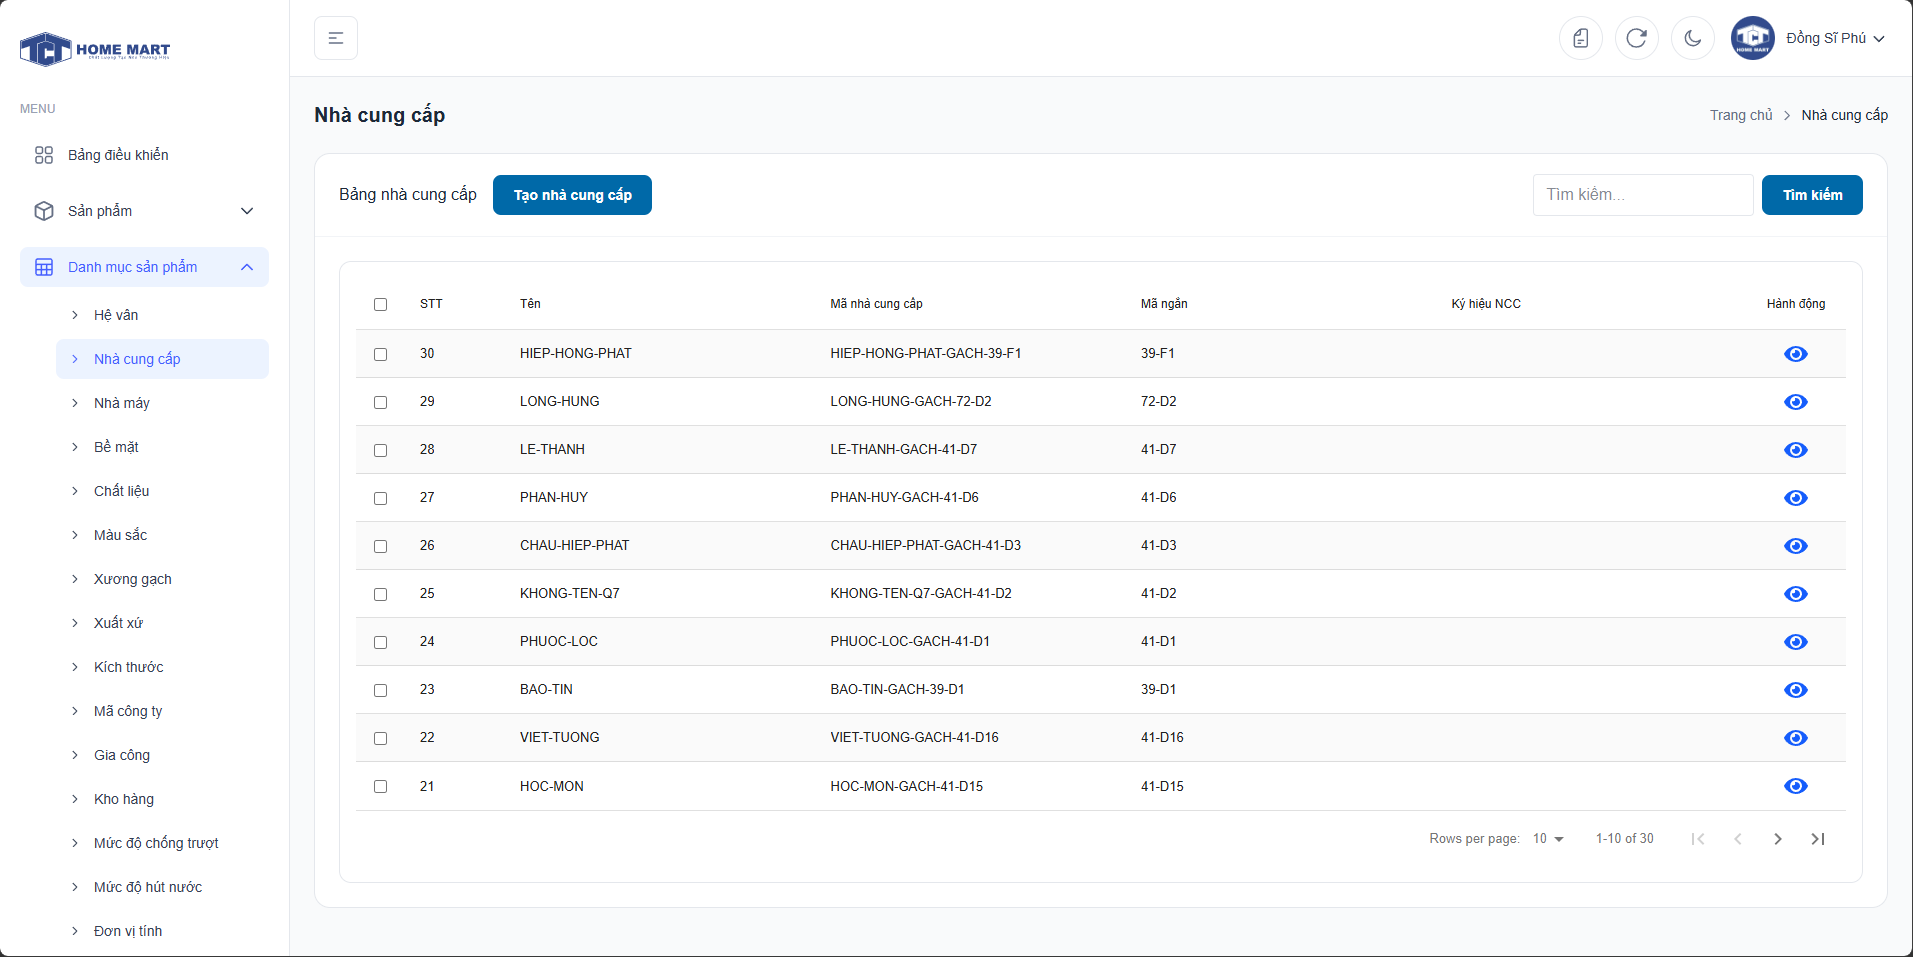
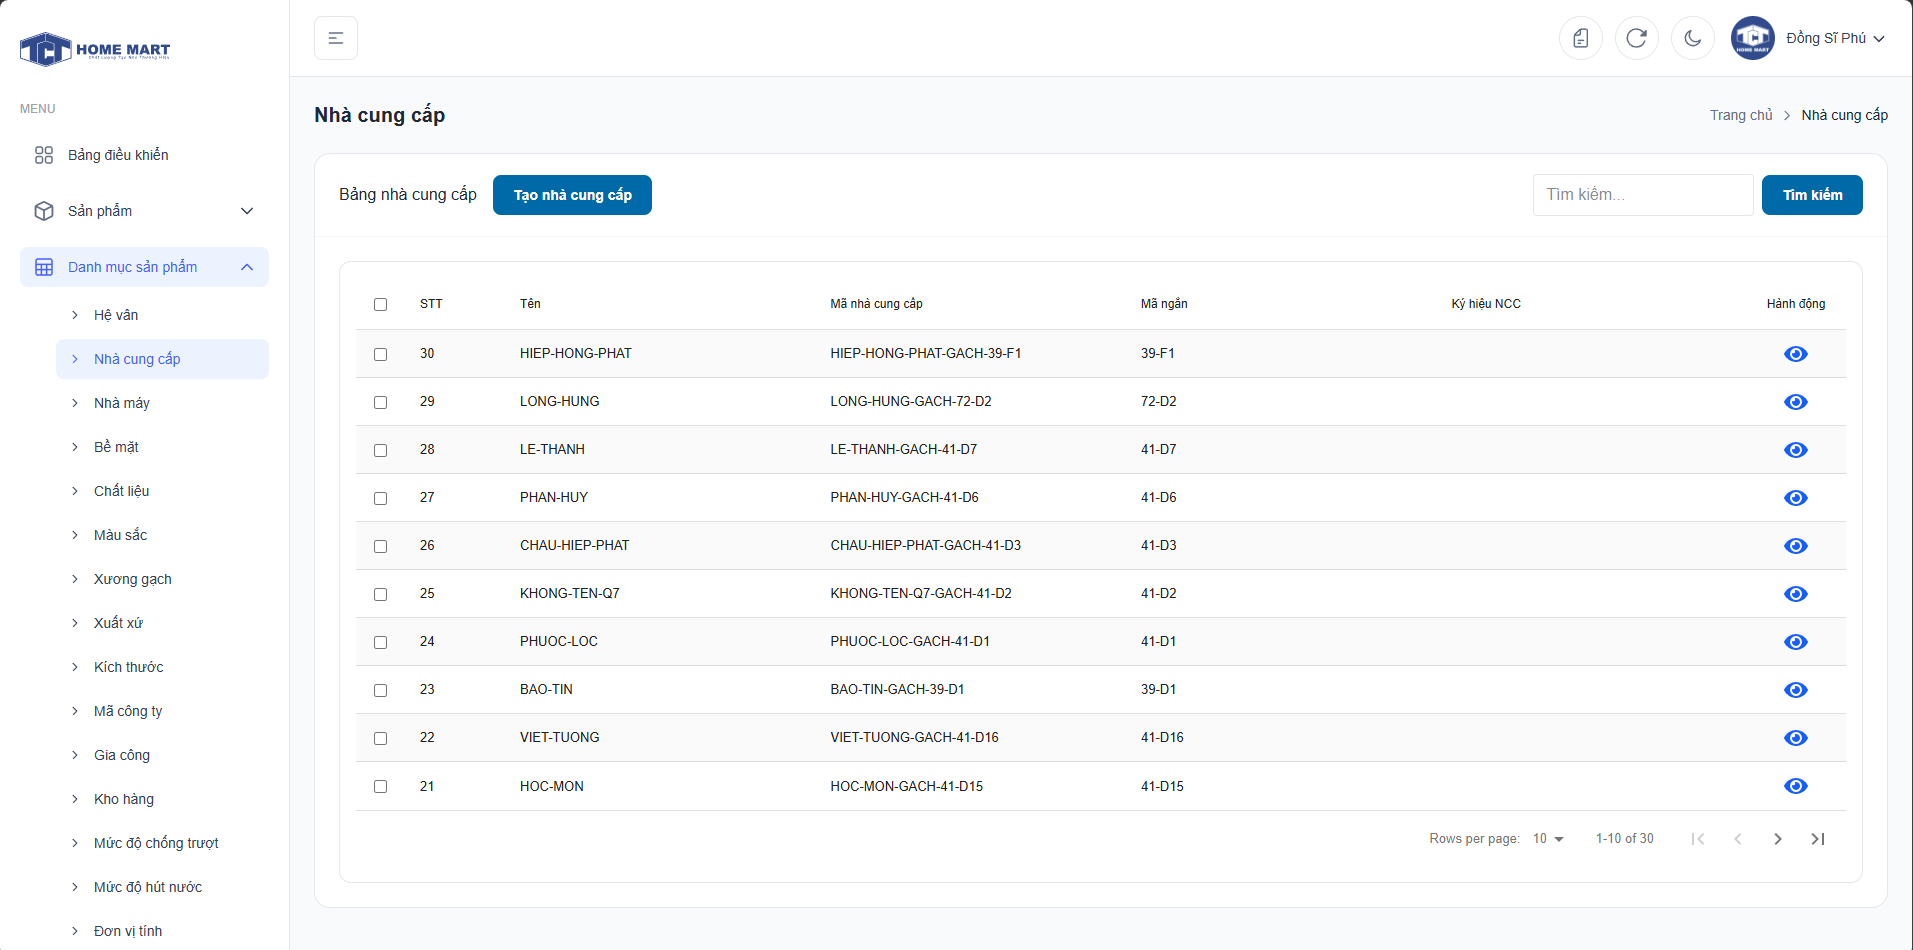
update guide UI

diff --git a/src/app/common/technicalInfoTemplates.ts b/src/app/common/technicalInfoTemplates.ts
@@ -230,7 +230,7 @@ export const technicalInfoTemplates: TechnicalInfoTemplate[] = [
 
 // Hàm để lấy template phù hợp dựa trên pattern
 export const getTechnicalInfoTemplate = (product: ProductDetail): TechnicalInfoTemplate => {
-  // Tìm template dựa trên pattern ID hoặc tên pattern
+  /*// Tìm template dựa trên pattern ID hoặc tên pattern
   const patternId = product.brickPatternId;
   const patternName = product.brickPatternShortName || "";
   
@@ -258,7 +258,8 @@ export const getTechnicalInfoTemplate = (product: ProductDetail): TechnicalInfoT
   );
   
   // Nếu không tìm thấy, trả về template mặc định
-  return template || defaultTemplate;
+  // return template || defaultTemplate;*/
+  return defaultTemplate; // Luôn trả về defaultTemplate nếu không tìm thấy template phù hợp
 };
 
 // Hàm để tạo technical info với template

diff --git a/src/components/tables/product/ProductTableComponent.tsx b/src/components/tables/product/ProductTableComponent.tsx
@@ -587,7 +587,9 @@ const ProductTableComponent = ({
                                   ""
                                 : ""
                             );
+                            //Default dynamic input template base on selected product
                             setTechnicalInfo(technicalInfoText);
+                            //Change to static template
                           }
                         }}
                         className="px-3 py-1 text-xs bg-blue-500 text-white rounded hover:bg-blue-600"
